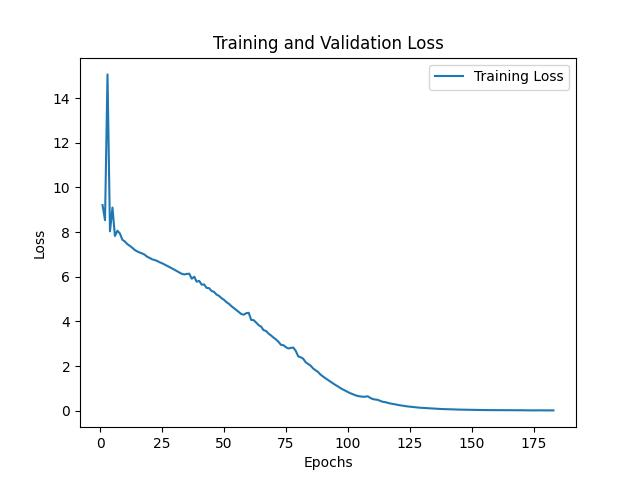
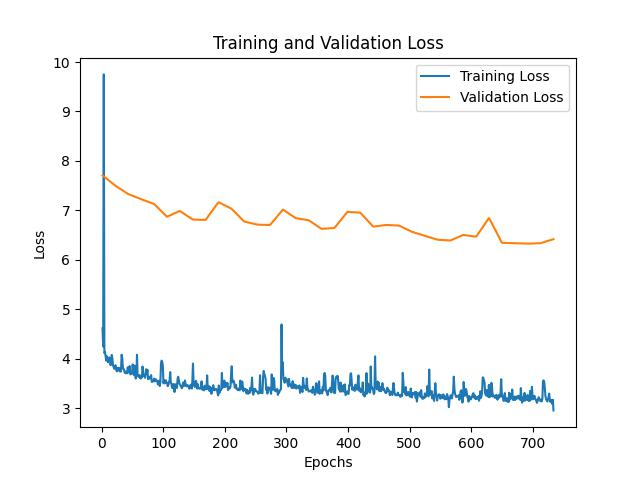
hparam change, fix dataset loading

diff --git a/train.py b/train.py
@@ -3,6 +3,7 @@ import time
 
 from omegaconf import OmegaConf
 import matplotlib.pyplot as plt
+import scipy.interpolate as interp
 import numpy as np
 import torch
 
@@ -10,11 +11,27 @@ from dataset import Dataloader
 from model import GPTConfig, GPT
 
 
+def evaluate():
+    model.eval()
+    losses = torch.zeros(val_steps)
+    for val_step in range(val_steps):
+        x, y = dataloader.get_batch(split='val')
+        _, loss = model(x, y, device=device)
+        losses[val_step] = loss.item()
+    loss = losses.mean().item()
+    model.train()
+    
+    return loss
+ 
+ 
+#TODO add wandb
+
 config = OmegaConf.load("config/config.yaml")
 
 block_size = config.model.block_size
 batch_size = config.dataloader.batch_size
 iterations = config.trainer.steps * config.trainer.epochs
+gradient_accumulation_steps = config.trainer.gradient_accumulation_steps
 val_steps = config.trainer.val_steps
 ckpt_dir = config.trainer.checkpoint_dir
 
@@ -43,30 +60,18 @@ optimizer.zero_grad()
 model.to(device)
 
 loss_per_step = {'train': [], 'val': []}
+x, y = dataloader.get_batch(split='train')
 
 best_val_loss = float('inf')
-for step in range(iterations):
-    t0 = time.time() 
-    
-    x, y = dataloader.get_batch(split='train')
-    logits, loss = model(x, y, device=device)
-    loss_per_step['train'].append(loss.item())
-    
-    loss.backward()
-    optimizer.step()
-    
+for step in range(iterations):    
     # Evaluate on validation data every n iterations
     if step > 0 and step % 20 == 0:
-        losses = torch.zeros(val_steps)
-        for val_step in range(val_steps):
-            x, y = dataloader.get_batch(split='val')
-            _, loss = model(x, y, device=device)
-            losses[val_step] = loss.item()
-        loss_per_step['val'].append(losses.mean().item())
+        val_loss = evaluate()
+        loss_per_step['val'].append(val_loss)
         
         # Checkpointing best model
-        if step > 0 and loss < best_val_loss:
-            best_val_loss = loss_per_step['val'][-1]
+        if step > 0 and val_loss < best_val_loss:
+            best_val_loss = val_loss
             checkpoint = {
                 'model': model.state_dict(),
                 'optimizer': optimizer.state_dict(),
@@ -77,14 +82,27 @@ for step in range(iterations):
             }
             print(f"saving checkpoint to {ckpt_dir}")
             torch.save(checkpoint, os.path.join(ckpt_dir, 'ckpt.pt'))
-    
+            
+    t0 = time.time() 
+    micro_losses = torch.zeros(gradient_accumulation_steps)
+    for micro_step in range(gradient_accumulation_steps):
+        logits, loss = model(x, y, device=device)
+        loss /= gradient_accumulation_steps
+        micro_losses[micro_step] = loss
+        loss.backward()  
+        
+        x, y = dataloader.get_batch(split='train')
+        
+    optimizer.step()
+    loss_per_step['train'].append(micro_losses.mean().item())
+        
     # Flush the gradients before next step
     optimizer.zero_grad(set_to_none=True)
     
     # Measure throughput
     t1 = time.time()
     dt = t1 - t0 # time difference in seconds
-    tokens_processed = dataloader.B * dataloader.T
+    tokens_processed = dataloader.B * gradient_accumulation_steps * dataloader.T
     tokens_per_sec = tokens_processed / dt # throughput
     print(f"step {step:4d} | loss: {loss.item():.6f} | dt: {dt*1000:.2f}ms | tok/sec: {tokens_per_sec:.2f}")
     
@@ -93,7 +111,11 @@ for step in range(iterations):
 epochs_array = np.arange(1, iterations + 1)
 # Plot and label the training and validation loss values
 plt.plot(epochs_array, loss_per_step['train'], label='Training Loss')
-plt.plot(epochs_array, loss_per_step['val'], label='Validation Loss')
+
+val_epochs_array = np.arange(1, len(loss_per_step['val']) + 1) * 20
+y_inter = interp.interp1d(val_epochs_array, loss_per_step['val'])
+y_ = y_inter(np.linspace(20, val_epochs_array[-1], iterations))
+plt.plot(epochs_array, y_, label='Validation Loss')
  
 plt.title('Training and Validation Loss')
 plt.xlabel('Epochs')

diff --git a/dataset.py b/dataset.py
@@ -18,20 +18,22 @@ class Dataloader:
         self.encode = lambda s: self.encoding.encode(s)
         self.decode = lambda s: self.encoding.decode(s)
         
-        self.curr_pos = 0
+        self.curr_pos = {'train': 0, 'val': 0}
         self.device = device
     
+    #TODO add padding when there aren't enough tokens to cover the full block size?
     def get_batch(self, split: str):
         data = np.memmap(os.path.join(self.data_dir, f'{split}.bin'), np.uint16, mode='r')
-        if self.curr_pos > len(data) - self.B * self.T:
-            self.curr_pos = 0
+        if self.curr_pos[split] > len(data) - self.B * self.T:
+            self.curr_pos[split] = 0
         #TODO permute things here, we shouldn't get the same batch compositions every time
-        x = torch.reshape(torch.from_numpy(data[self.curr_pos: self.curr_pos + (self.B * self.T)].astype(np.int64)), [self.B, self.T])
-        y = torch.reshape(torch.from_numpy(data[self.curr_pos + 1: self.curr_pos + (self.B * self.T) + 1].astype(np.int64)), [self.B, self.T]) # shifted to the right by 1 position
+        pos = self.curr_pos[split]
+        x = torch.reshape(torch.from_numpy(data[pos: pos + (self.B * self.T)].astype(np.int64)), [self.B, self.T])
+        y = torch.reshape(torch.from_numpy(data[pos + 1: pos + (self.B * self.T) + 1].astype(np.int64)), [self.B, self.T]) # shifted to the right by 1 position
         
         x, y = x.to(self.device), y.to(self.device)
         
-        self.curr_pos = self.B * self.T + 1
+        self.curr_pos[split] += self.B * self.T + 1
         
         return x, y
     

diff --git a/model.py b/model.py
@@ -83,7 +83,7 @@ class GPT(nn.Module):
             loss = None
             
         return logits, loss
-    
+        
     @torch.no_grad()
     def generate(self, sequence, max_new_tokens, top_k, device):
         self.to(device)
